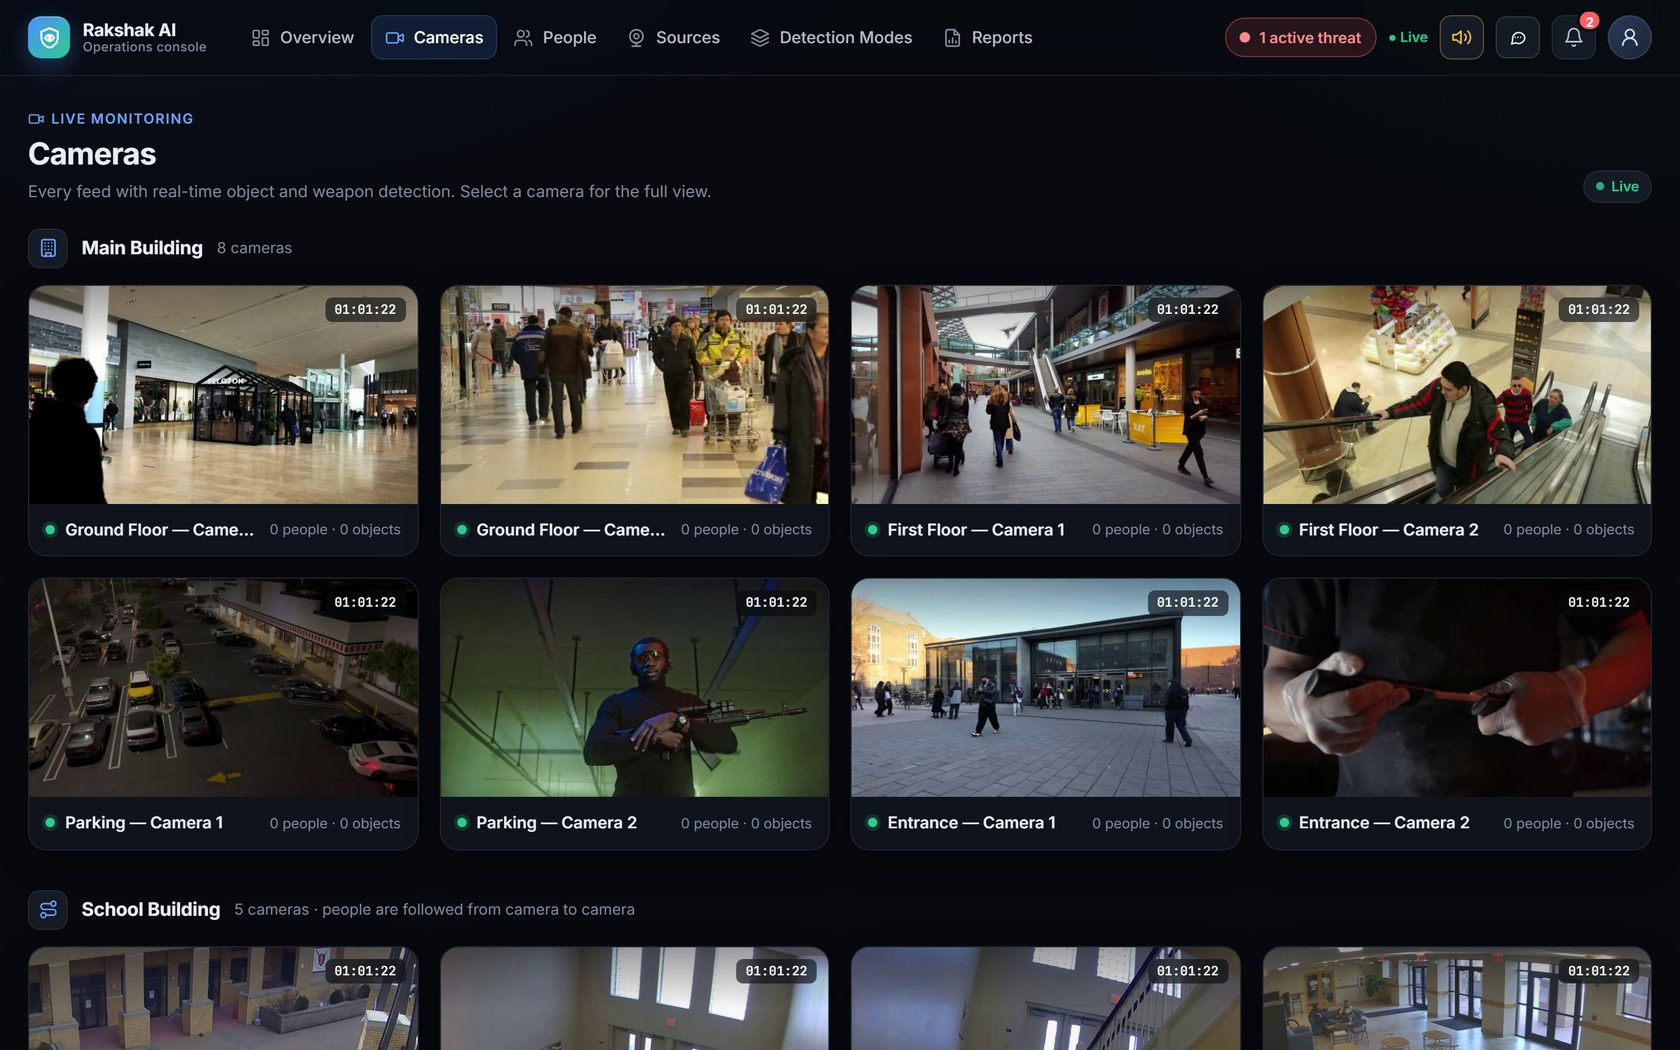
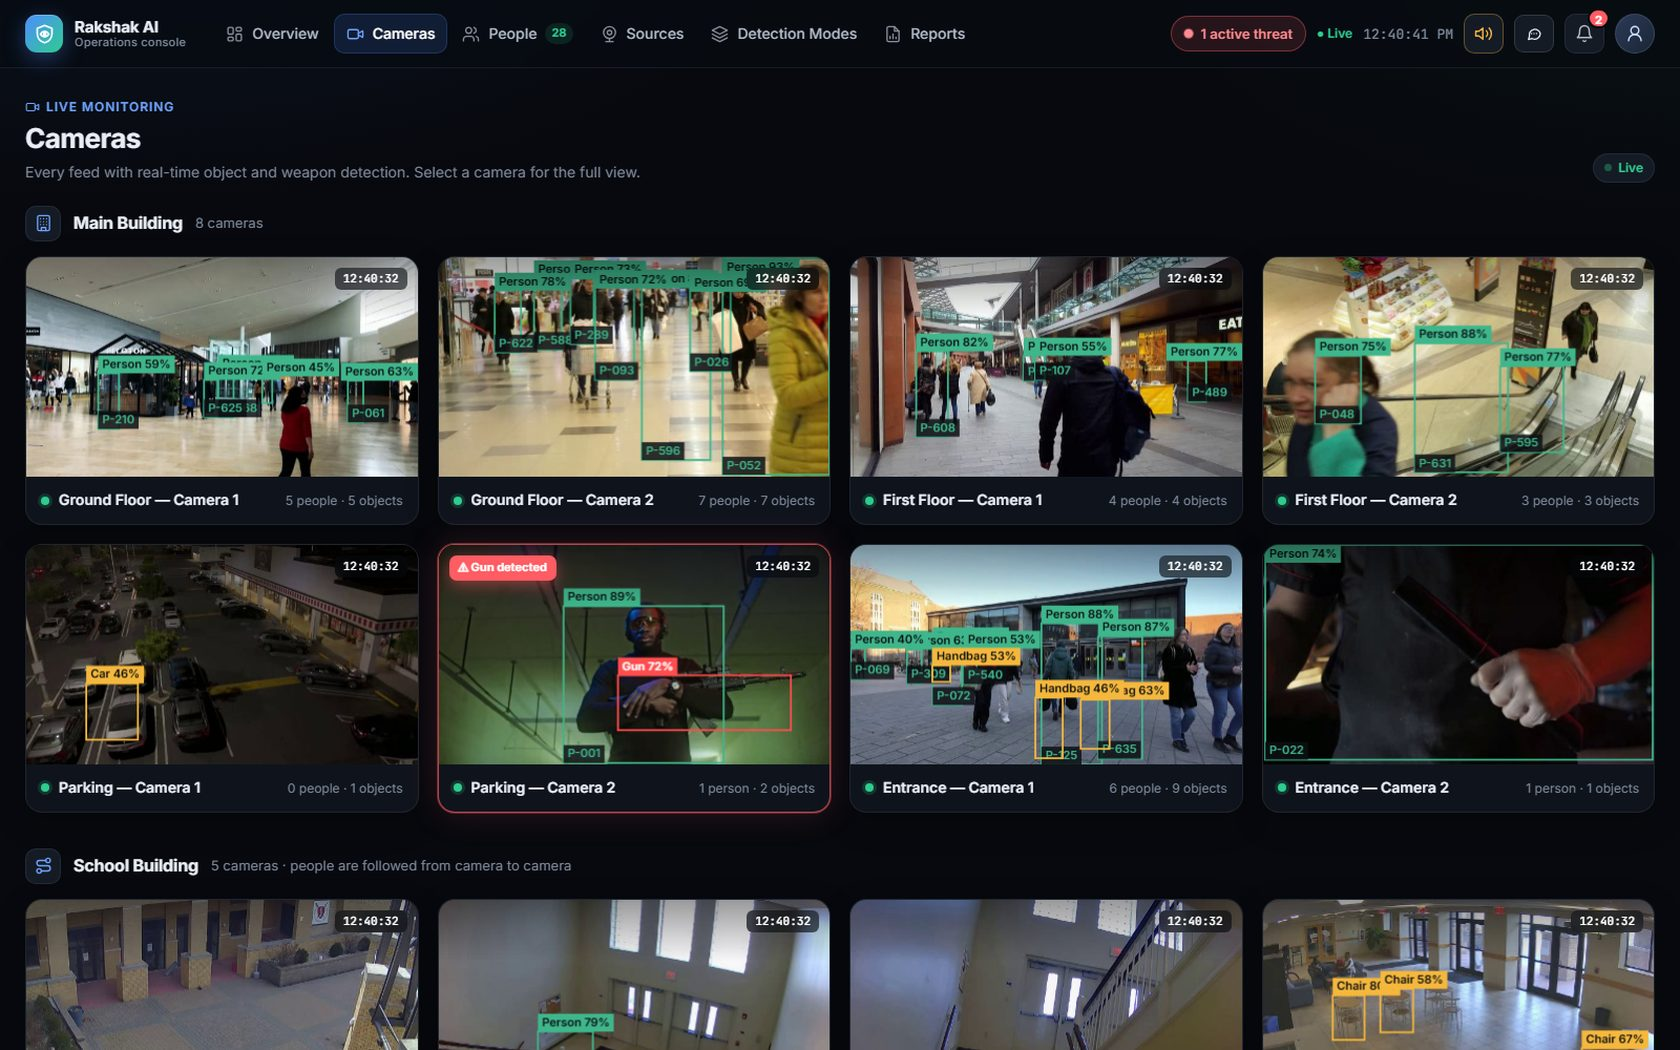
Initial commit

diff --git a/static/landing.html b/static/landing.html
@@ -486,20 +486,21 @@
       <div class="cost reveal">
         <div class="cost-big">
           <span class="k">Estimated cost</span>
-          <span class="v">≈ ₹3.7 cr</span>
-          <p>to equip all 734 SSB Border Out Posts once, at about ₹50,000 per post, on cameras the force already owns. No per-camera licence and no recurring cloud bill.</p>
+          <span class="v">≈ ₹2.4 cr</span>
+          <p>to equip all 734 SSB Border Out Posts once with a Rakshak Edge Box (about ₹32,500 per post), on cameras the force already owns. No per-camera licence and no recurring cloud bill.</p>
         </div>
         <div>
           <table>
             <tbody>
-              <tr><td>Edge computer (mini-PC, 16 GB RAM, SSD, no GPU)</td><td>₹30,000 – 50,000</td></tr>
-              <tr><td>UPS and power conditioning</td><td>₹5,000 – 8,000</td></tr>
-              <tr><td>Cameras</td><td>₹0, already installed</td></tr>
-              <tr><td>Software licence and cloud</td><td>₹0</td></tr>
-              <tr class="total"><td>Per post, one time</td><td>≈ ₹40,000 – 60,000</td></tr>
+              <tr><td>Intel N100 mini-PC board (4-core, fanless)</td><td>₹13,000</td></tr>
+              <tr><td>16 GB RAM + 512 GB NVMe SSD</td><td>₹8,000</td></tr>
+              <tr><td>4-port PoE+ switch for the cameras</td><td>₹3,500</td></tr>
+              <tr><td>12 V mini-UPS, IP65 enclosure, 4G modem, cables</td><td>₹8,000</td></tr>
+              <tr><td>Cameras · software licence · cloud</td><td>₹0</td></tr>
+              <tr class="total"><td>Edge Box per post, one time</td><td>≈ ₹32,500</td></tr>
             </tbody>
           </table>
-          <p class="fine">An estimate from current commodity hardware prices, not a quotation. The hardware is off-the-shelf and can be bought through standard government procurement.</p>
+          <p class="fine">An indicative estimate at 2026 retail prices, excluding GST and installation; not a quotation. The box is a reference build from off-the-shelf parts that can be bought through standard government procurement.</p>
         </div>
       </div>
     </div>
